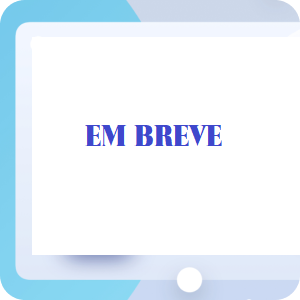
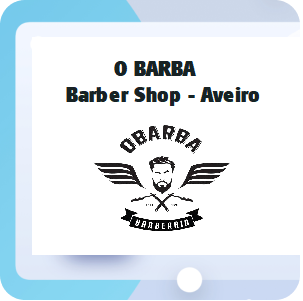
Add files via upload

diff --git a/MyPortfolio/index.html b/MyPortfolio/index.html
@@ -125,6 +125,7 @@
                     <div class="hover">
                         <h4>Aplicação</h4>
                         <a href="https://github.com/dandantas-code/dandantas-code.github.io/tree/main/OBarba" target="_blank" class="highlight">Github<i class="fa fa-arrow-right"></i></a>
+                        <a href="https://dandantas-code.github.io/OBarba" target="_blank" class="highlight">Ver projeto<i class="fa fa-arrow-right"></i></a>
                     </div>
                 </div>
                 <div class="grid-box">
@@ -175,17 +176,17 @@
             <div class="quick-links">
                 <div class="brand"><img src="./img/logo-fav-web.png"></div>
                 <ul>
-                    <li>Home</li>
-                    <li>Skills</li>
-                    <li>Projetos</li>
-                    <li>Contacto</li>
+                    <li><a href="#header">Home</li></a>
+                    <li><a href="#skills">Skills</li></a>
+                    <li><a href="#projetos">Projetos</li></a>
+                    <li><a href="#contacto">Contacto</li></a>
                 </ul>
             </div>
         </div>
     </section>
 
     <div class="copyright container">
-        <p>2022 Daniel Dantas</p>
+        <p>Copyright ® Developed by Daniel Dantas</p>
     </div>
 
     <script>
